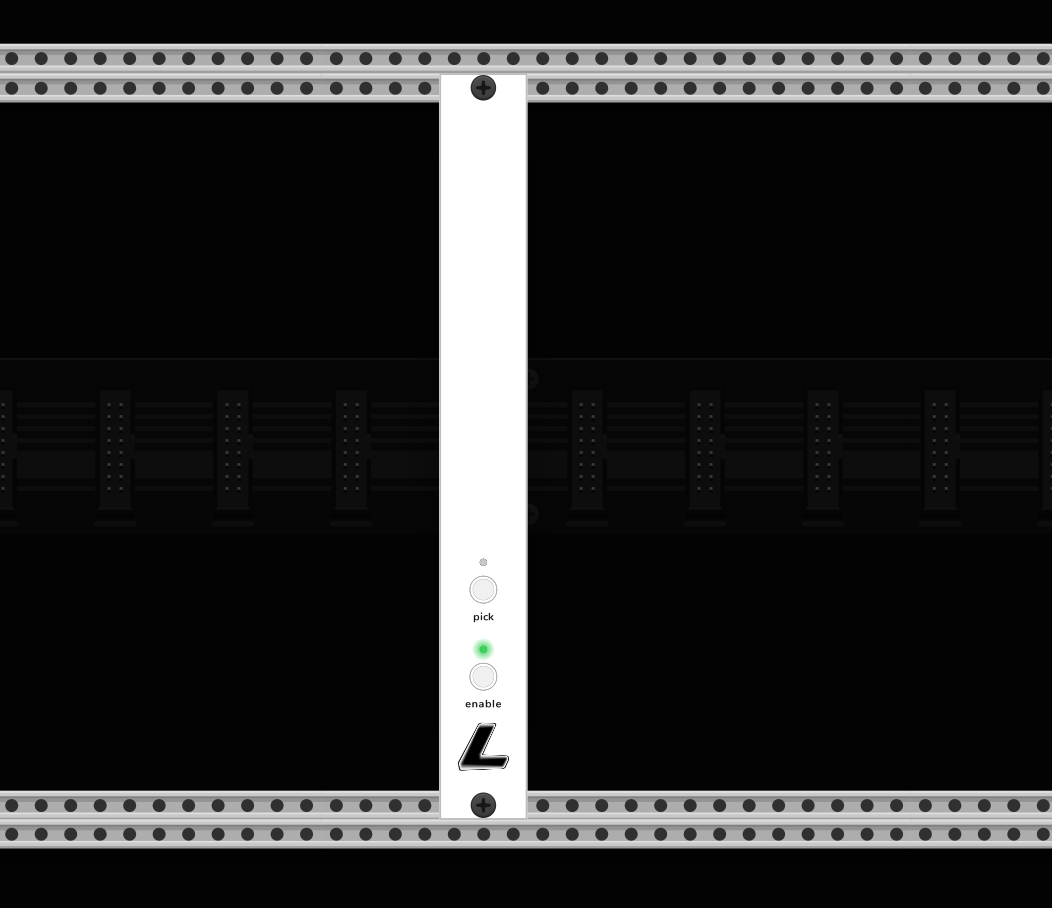
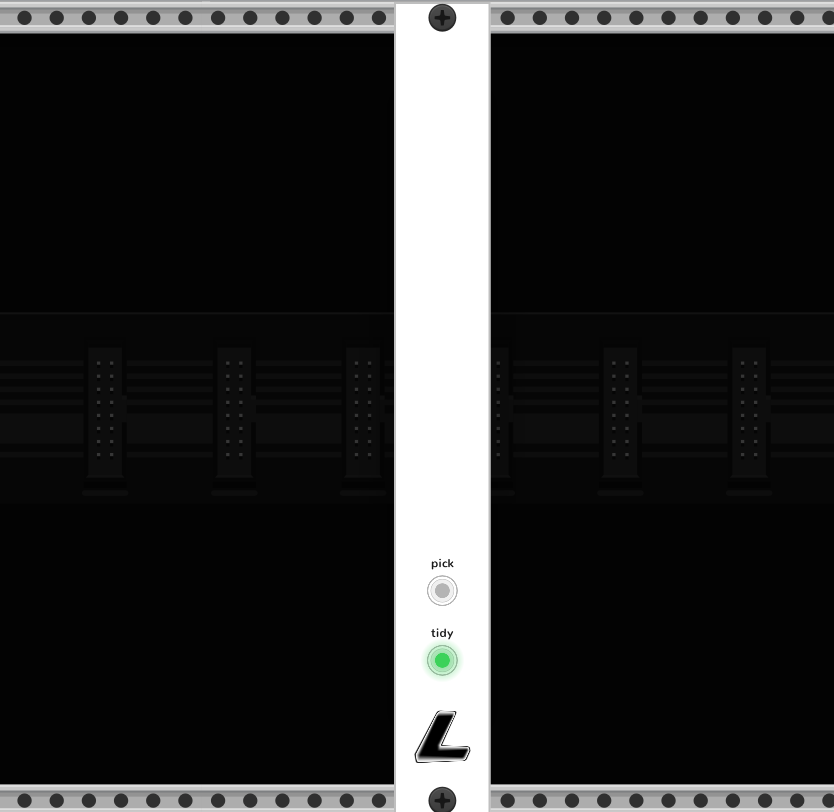
Update README with all four modules and fresh screenshots
- Renamed Notes section to journal; rewrote feature list to match the
  new editor (pending-mark formatting, triggers, no raw mode, no
  markers-in-text).
- New tidy screenshot reflecting the in-button LEDs and label-above
  layout.
- Added grab section — auto-recorder, right-click options, async write.
- Added jump section, flagged experimental with a note about the
  zoomToBound padding drift.
- Dropped old docs/notes.png; added docs/journal.png + docs/grab.png +
  docs/jump.png; refreshed docs/tidy.png.

diff --git a/README.md b/README.md
@@ -1,40 +1,67 @@
 # Lux Cache — VCV Rack modules
 
-A collection of utility and visual modules for VCV Rack 2.
+A collection of utility and visual modules for VCV Rack 2. Minimal panels, thoughtful defaults, no signal path — everything lives outside of audio.
 
 ## Modules
 
-### Notes
+### journal
 
-![Notes module](docs/notes.png)
+![journal module](docs/journal.png)
 
-A resizable notes canvas with smart text editing.
+Resizable text canvas with a proper rich-text editor underneath. Built on a document model — formatting is metadata on bytes, not markdown markers sitting inside your text.
 
-- Pure black / pure white canvas, dark-mode toggle
+- Pure black / pure white canvas, shared dark-mode toggle
 - Drag the bottom-right corner to resize (3–128 HP)
-- Centered title field between the top screws
-- Full-featured text editor: visual-line nav, word-level nav, undo/redo, double/triple-click to select word / paragraph
-- Inline formatting: `**bold**`, `_italic_` or `*italic*`, `` `code` `` — markers hidden while you edit (`Cmd+B`, `Cmd+I`, `Cmd+E`)
-- Headings (`# … ######`) rendered larger and bolder (`Cmd+Shift+]` / `Cmd+Shift+[`)
-- Auto-continuing lists: `-`, `*`, `+`, `•`, `→`, `—`, `▪`, `·`, plus numbered
-- Tab / Shift+Tab to nest / outdent
-- Double-Enter on an empty bullet exits the list
-- Horizontal rule (`---`) rendered as a full-width line; also "Insert horizontal line" in the right-click menu
-- Smart Enter: pressing Enter inside a bold/italic/code span continues the formatting on the next line
-- Right-click menu: raw-mode toggle to reveal markers, export as `.md` / `.txt`, hide logo, dark mode
-- Scroll wheel when content overflows
-- Caret blinks to macOS-standard timing
+- Centred title field between the top screws
+- Cmd+B / Cmd+I / Cmd+E for bold / italic / inline code — with **pending-mark** semantics (no selection = next character picks up the style, no markers to trip over)
+- Cmd+Shift+] / [ cycles heading level (paragraph ↔ H3 … H1)
+- Type `# ` at line start for a heading, `- `/`* `/`+ ` for a bullet, `1. ` for ordered, `---` alone for a horizontal rule
+- Enter on a list auto-continues the marker (ordered auto-increments); Enter on an empty item exits the list
+- Tab / Shift+Tab indents / outdents list items
+- Visual-line arrow nav, word-level Alt+arrows, line Home/End, doc Cmd+↑/↓
+- Cmd+A / C / X / V clipboard, Cmd+Z / Cmd+Shift+Z undo/redo with typing coalescing
+- Click / drag / double-click-word / triple-click-block selection
+- Right-click menu: export as `.md` or `.txt`, insert horizontal line, hide logo, dark mode
+- Round-trips cleanly through markdown on save/load
 
-### Tidy
+### tidy
 
-![Tidy module](docs/tidy.png)
+![tidy module](docs/tidy.png)
 
-Selectively hide or fade individual modules and cables without changing global cable opacity.
+Selectively hide or fade individual modules and cables without touching global cable opacity.
 
-- Picker mode to click modules in the rack to hide / darken them
-- Per-rule cable opacity, hide-connected-cables, module brightness
-- Preset slots
-- Dark-mode overlay
+- Picker mode — click any module in the rack to hide it or darken its panel
+- Per-rule controls: cable opacity, module brightness, hide-connected-cables
+- Per-cable-colour opacity so you can fade entire colour classes
+- Preset slots that capture the current rule set
+- Dark-mode overlay for "force this module to look dark"
+
+### grab
+
+![grab module](docs/grab.png)
+
+Auto-triggered one-shot recorder. Listens for signal, captures the take, writes WAV. No arming cables, no gate inputs — it just records when audio's coming in.
+
+- Stereo L/R inputs; captures mono if only one is connected
+- Arm button on panel; records only when armed
+- Threshold + hangover + pre-roll so attacks aren't clipped and small gaps don't end a take
+- Min-take filter suppresses spurious click-triggered micro-files
+- Right-click menu: threshold (dB), hangover (ms), pre-roll (ms), fade in/out (ms), max take length (s), normalise to 0 dB, bit depth (16 / 24 / 32-bit float), filename prefix, output directory, reveal folder
+- Filenames auto-increment: `<prefix><NN>.wav`
+- Written asynchronously on a background thread so the audio thread never touches disk
+
+### jump (experimental)
+
+![jump module](docs/jump.png)
+
+Saved-view bookmarks for navigating large patches. Click the dot to arm, then `Cmd+1..9` saves the current scroll + zoom; not armed, `Cmd+1..9` jumps to that slot.
+
+- 9 slots, per-patch persistence
+- `Cmd+[` / `Cmd+]` back/forward through nav history
+- Pulse-on-arrival so the eye can follow the jump
+- One amber-pulse dot on the panel; `Esc` cancels arm
+
+Filed as experimental: the view-restore has a known zoom drift on tight close-up saves (5% of viewport is baked into Rack's `zoomToBound` padding, which translates to ~5–17% zoom-out depending on how zoomed-in you were). Overview-scale bookmarks are near-perfect; re-saving from the landed view is an easy self-correct.
 
 ## Building
 